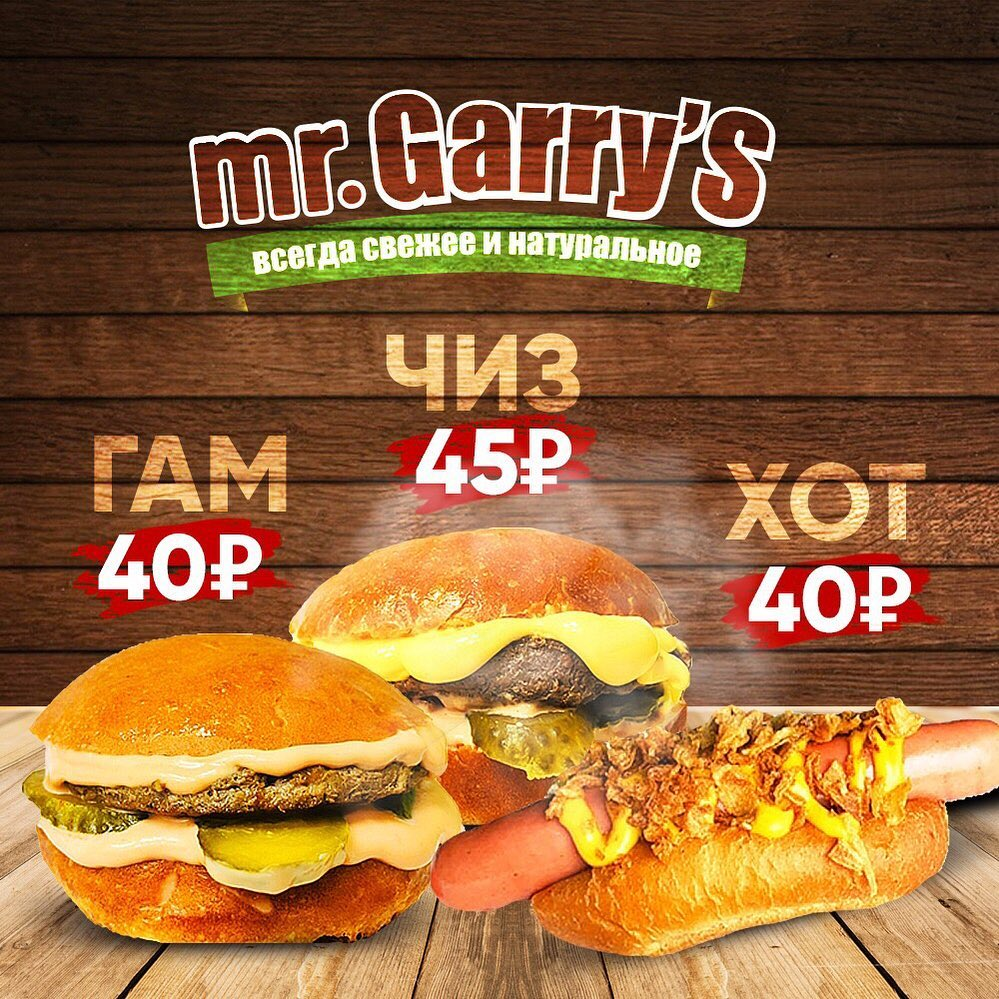
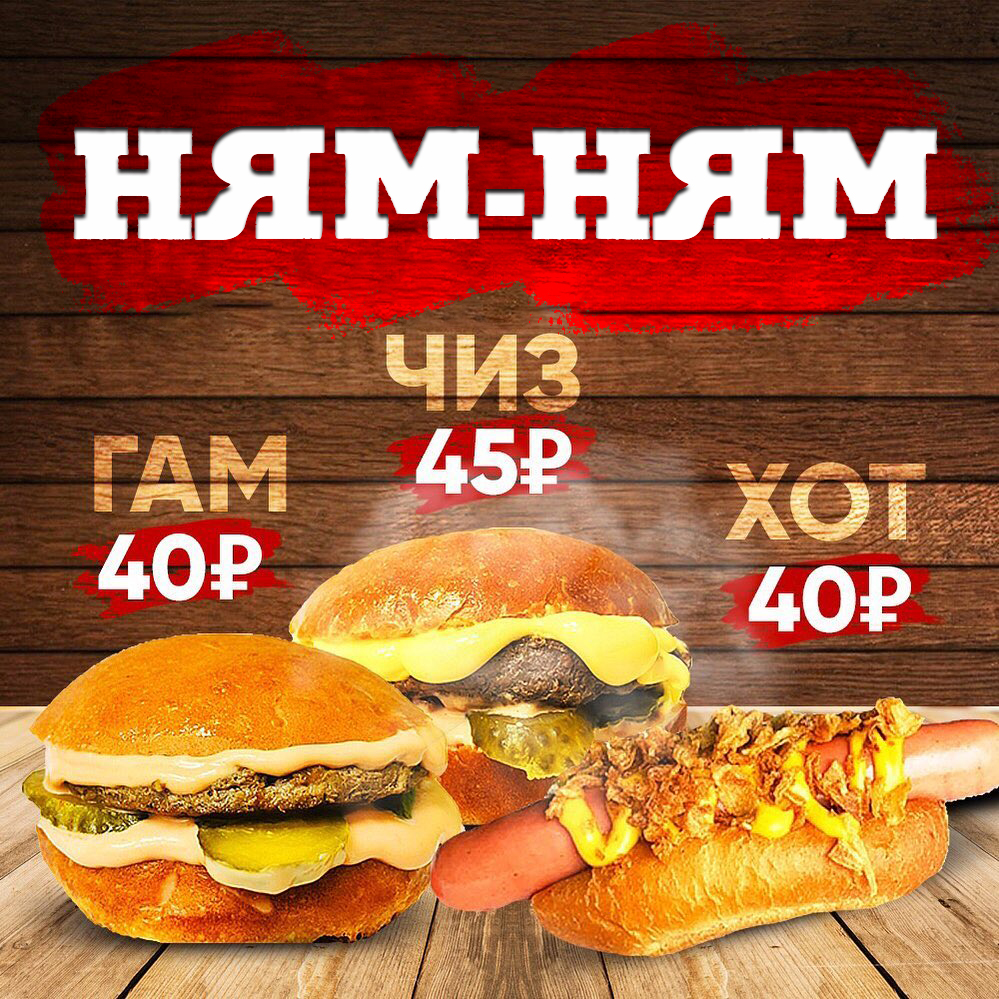
Signed-off-by: joySystem <joy.systems@yandex.ru>

Changed region(s): [[0.031, 0.0, 1.0, 0.3413]]

diff --git a/index.html b/index.html
@@ -17,7 +17,7 @@
 
             <div class="col-sm-12">
                 <div class="text-center display-4">
-                    БУРГЕРЫ <a href="#" class="alert-link">НЯМ-НЯМ</a>.
+                    БУРГЕРЫ <a href="#" class="alert-link">НЯМ-НЯМ-НЯМ</a>.
                   </div>
             </div>
         </div>
